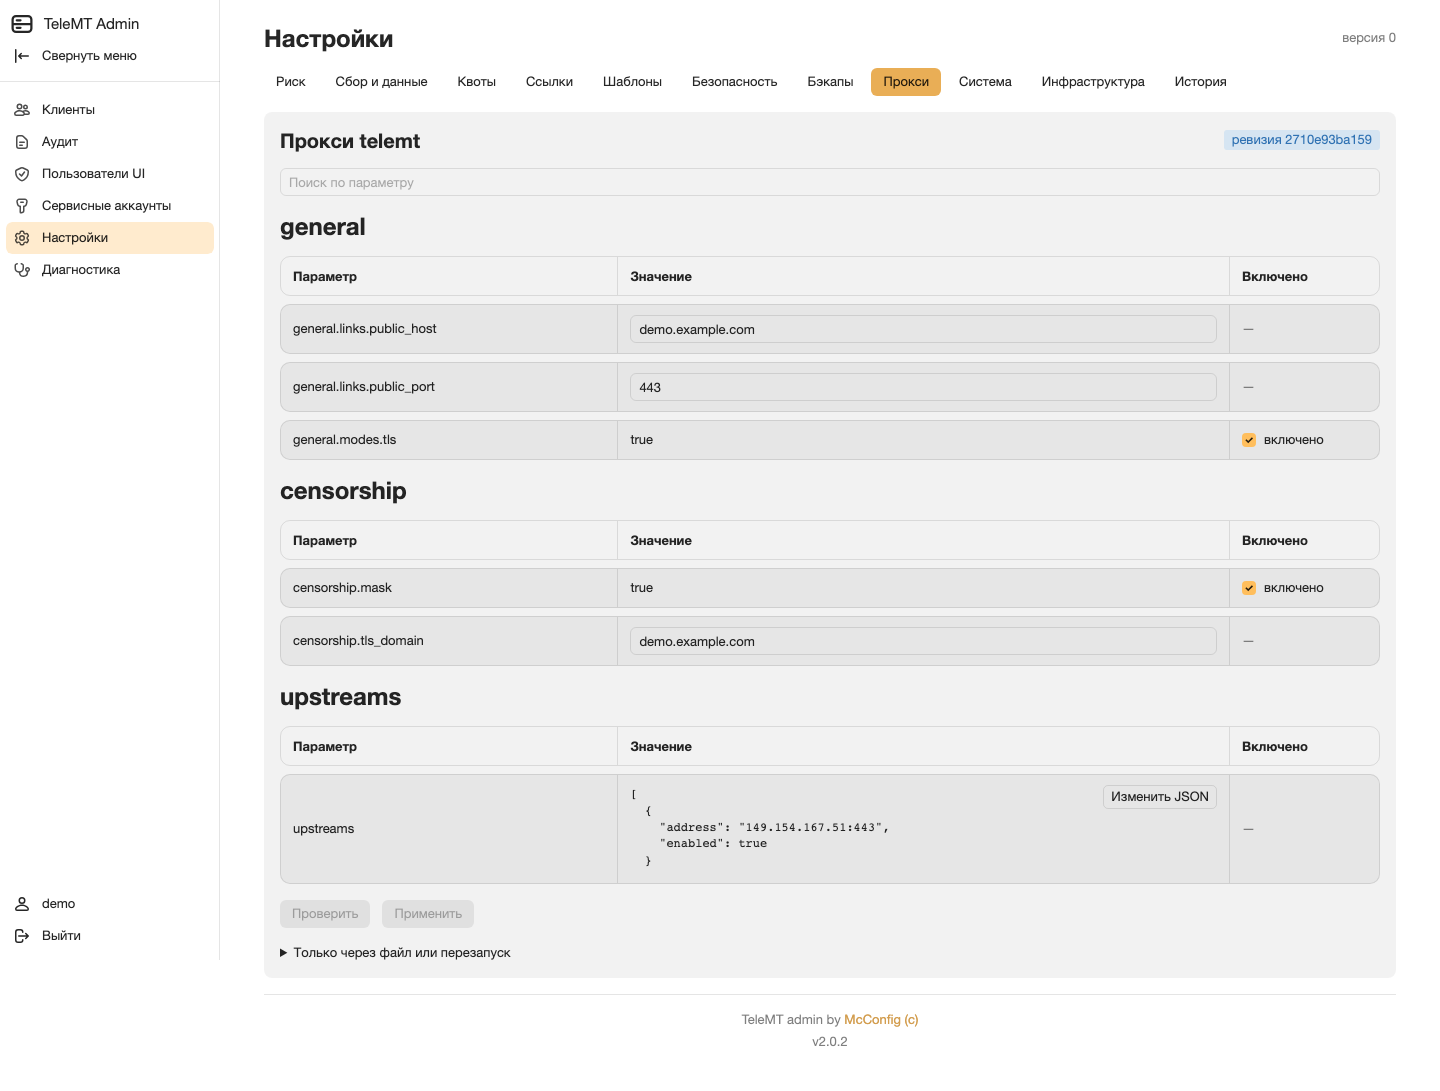
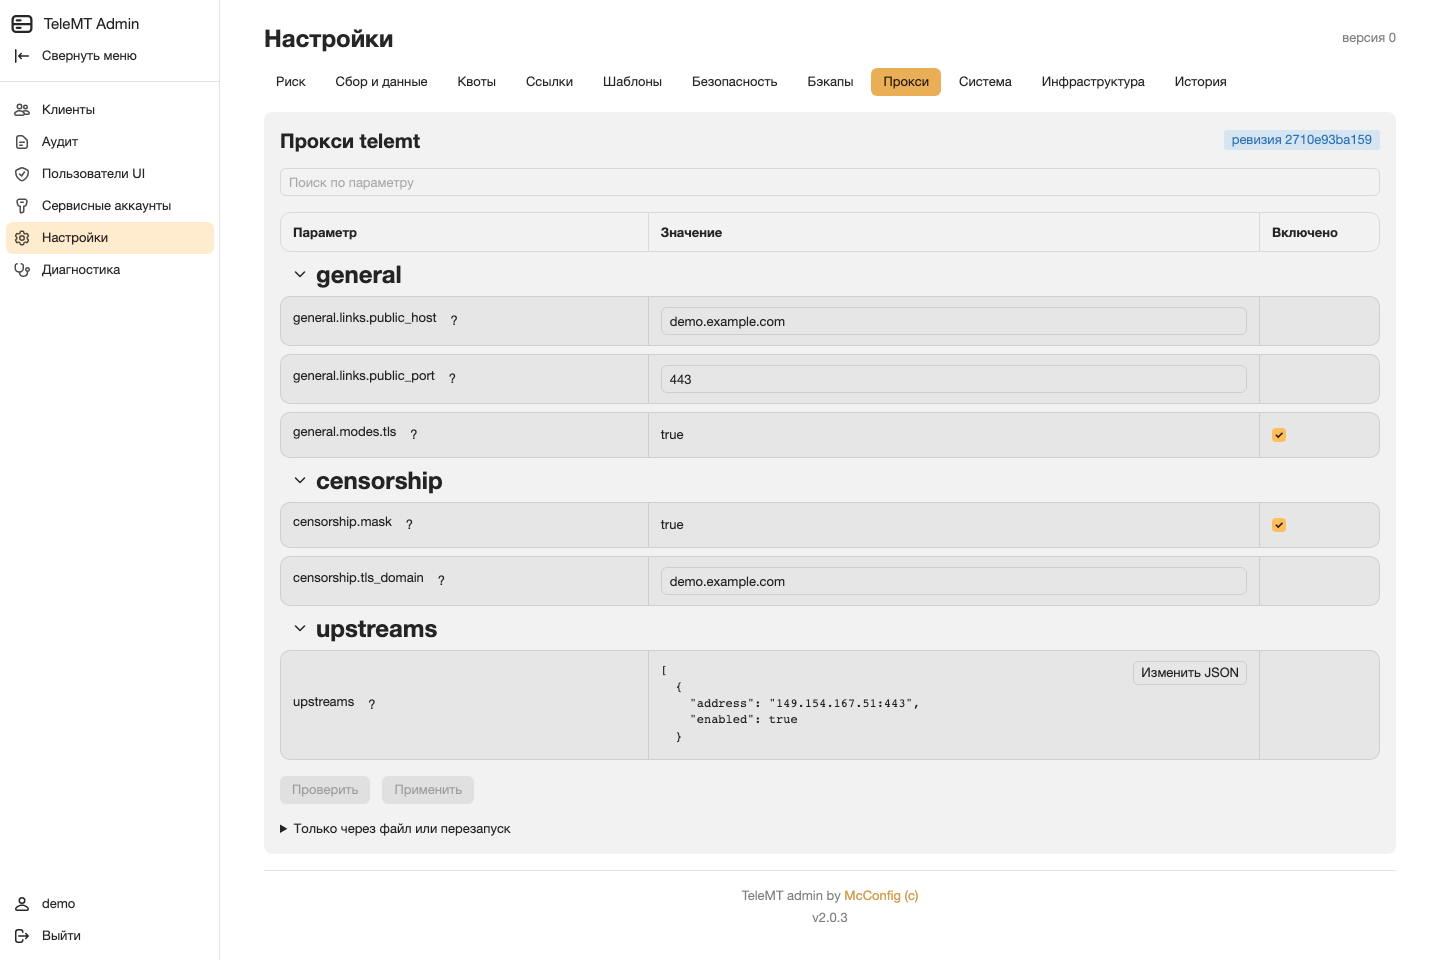
feat(ui): подсказки, сворачивание и подсветка в таблице прокси (#95)

diff --git a/frontend/src/pages/ProxyPanel.tsx b/frontend/src/pages/ProxyPanel.tsx
@@ -5,13 +5,16 @@ import {
   Card,
   Checkbox,
   Dialog,
+  Icon,
   Label,
   Loader,
+  Popover,
   Select,
   Text,
   TextArea,
   TextInput,
 } from '@gravity-ui/uikit';
+import { ChevronDown, ChevronRight } from '@gravity-ui/icons';
 import { api, ApiError, type ProxyConfig, type ProxySchema, type ProxySchemaField } from '../api';
 
 function getPath(source: Record<string, unknown>, path: string): unknown {
@@ -105,6 +108,7 @@ export default function ProxyPanel() {
   const [reload, setReload] = useState('');
   const [search, setSearch] = useState('');
   const [jsonEditor, setJsonEditor] = useState<JsonEditor | null>(null);
+  const [collapsed, setCollapsed] = useState<Record<string, boolean>>({});
 
   const load = useCallback(async () => {
     try {
@@ -197,6 +201,12 @@ export default function ProxyPanel() {
     walk('', patch);
     return out;
   }, [patch]);
+
+  const rowChanged = (field: ProxySchemaField) => {
+    if (draft[field.path] === undefined) return false;
+    const original = getPath(config?.config ?? {}, field.path);
+    return JSON.stringify(draft[field.path]) !== JSON.stringify(original);
+  };
 
   const matches = (field: ProxySchemaField) => {
     const needle = search.trim().toLowerCase();
@@ -291,18 +301,31 @@ export default function ProxyPanel() {
   const renderRow = (field: ProxySchemaField, readonly = false) => {
     const kind = kindOf(field);
     const value = current(field);
+    const help = field.description || field.non_editable_reason;
     return (
-      <div className="proxy-row" key={field.path}>
+      <div className={`proxy-row${rowChanged(field) ? ' proxy-row_changed' : ''}`} key={field.path}>
         <div className="proxy-cell proxy-name">
-          <Text>{field.path}</Text>
-          {field.description && <Text className="muted proxy-description">{field.description}</Text>}
+          <div className="proxy-name-line">
+            <Text>{field.path}</Text>
+            {help && (
+              <Popover
+                trigger="click"
+                placement="right"
+                content={<Text className="proxy-help-text">{help}</Text>}
+              >
+                <Button view="flat" size="s" className="proxy-help" aria-label={`Описание ${field.path}`}>
+                  ?
+                </Button>
+              </Popover>
+            )}
+          </div>
         </div>
         <div className="proxy-cell proxy-value">
           {kind === 'bool' ? (
             <Text>{Boolean(value) ? 'true' : 'false'}</Text>
           ) : kind === 'enum' ? (
             readonly ? (
-              <Text>{String(value ?? '—')}</Text>
+              <Text>{String(value ?? '')}</Text>
             ) : (
               <Select
                 aria-label={field.path}
@@ -325,7 +348,7 @@ export default function ProxyPanel() {
               )}
             </div>
           ) : readonly ? (
-            <Text>{valueText(value) || '—'}</Text>
+            <Text>{valueText(value)}</Text>
           ) : (
             <TextInput
               value={valueText(value)}
@@ -336,16 +359,13 @@ export default function ProxyPanel() {
           )}
         </div>
         <div className="proxy-cell proxy-enabled">
-          {kind === 'bool' ? (
+          {kind === 'bool' && (
             <Checkbox
               checked={Boolean(value)}
               disabled={readonly}
               onUpdate={(checked) => update(field, checked)}
-              content="включено"
               controlProps={{ 'aria-label': field.path }}
             />
-          ) : (
-            <Text className="muted">—</Text>
           )}
         </div>
       </div>
@@ -378,19 +398,30 @@ export default function ProxyPanel() {
           controlProps={{ 'aria-label': 'Поиск по параметру' }}
         />
 
-        {Object.entries(groups).map(([section, items]) => {
-          const visible = items.filter(matches);
-          if (visible.length === 0) return null;
-          return (
-            <div className="stack proxy-section" key={section}>
-              <Text variant="header-2">{section}</Text>
-              <div className="proxy-table">
-                {header}
-                {visible.map((field) => renderRow(field))}
+        <div className="proxy-table">
+          {header}
+          {Object.entries(groups).map(([section, items]) => {
+            const visible = items.filter(matches);
+            if (visible.length === 0) return null;
+            const isCollapsed = Boolean(collapsed[section]);
+            return (
+              <div className="proxy-group" key={section}>
+                <Button
+                  view="flat"
+                  className="proxy-group-toggle"
+                  aria-expanded={!isCollapsed}
+                  onClick={() => setCollapsed((prev) => ({ ...prev, [section]: !prev[section] }))}
+                >
+                  <span className="proxy-group-title">
+                    <Icon data={isCollapsed ? ChevronRight : ChevronDown} size={16} />
+                    <Text variant="header-2">{section}</Text>
+                  </span>
+                </Button>
+                {!isCollapsed && visible.map((field) => renderRow(field))}
               </div>
-            </div>
-          );
-        })}
+            );
+          })}
+        </div>
 
         {changedPaths.length > 0 && (
           <div className="stack">
@@ -429,7 +460,6 @@ export default function ProxyPanel() {
           <details>
             <summary>Только через файл или перезапуск</summary>
             <div className="proxy-table" style={{ marginTop: 8 }}>
-              {header}
               {readOnly.filter(matches).map((field) => renderRow(field, true))}
             </div>
           </details>
@@ -444,12 +474,15 @@ export default function ProxyPanel() {
         <Dialog.Header caption={jsonEditor ? `JSON: ${jsonEditor.path}` : 'JSON'} />
         <Dialog.Body>
           <div className="stack proxy-json-dialog">
-            {jsonEditor?.error && (
-              <Alert theme="danger" message={jsonEditor.error} onClose={() => jsonEditor && changeJSON(jsonEditor.text)} />
-            )}
+            <div className="proxy-json-error">
+              {jsonEditor?.error ? (
+                <Alert theme="danger" message={jsonEditor.error} />
+              ) : (
+                <Text className="muted">JSON проверяется автоматически</Text>
+              )}
+            </div>
             <TextArea
               className="proxy-json-editor"
-              rows={18}
               value={jsonEditor?.text ?? ''}
               onUpdate={changeJSON}
               controlProps={{ 'aria-label': 'JSON' }}

diff --git a/frontend/src/pages/ProxyPanel.test.tsx b/frontend/src/pages/ProxyPanel.test.tsx
@@ -194,7 +194,7 @@ describe('ProxyPanel — таблица и JSON', () => {
       },
     });
     renderUI(<ProxyPanel />);
-    expect((await screen.findAllByText('Параметр')).length).toBeGreaterThan(0);
+    expect(await screen.findAllByText('Параметр')).toHaveLength(1);
     expect(screen.getAllByText('Значение').length).toBeGreaterThan(0);
     expect(screen.getAllByText('Включено').length).toBeGreaterThan(0);
     expect(screen.getByRole('checkbox', { name: 'censorship.mask' })).toBeChecked();
@@ -310,5 +310,85 @@ describe('ProxyPanel — объект, enum и read-only', () => {
     const checkbox = await screen.findByRole('checkbox', { name: 'server.metrics' });
     expect(checkbox).toBeDisabled();
     expect(checkbox).toBeChecked();
+  });
+});
+
+const helpSchema = {
+  version: 1,
+  fields: [
+    {
+      path: 'general.links.public_host',
+      description: 'Публичный адрес в ссылках tg://',
+      value: { type: 'string' },
+      api: { config_read: true, config_write: true },
+      apply: { watcher: 'supported', reload: 'supported', effect: 'links' },
+    },
+    {
+      path: 'censorship.mask',
+      description: 'Маскировать неизвестные соединения',
+      value: { type: 'boolean' },
+      api: { config_read: true, config_write: true },
+      apply: { watcher: 'supported', reload: 'supported', effect: 'mask' },
+    },
+  ],
+};
+
+describe('ProxyPanel — подсказки, сворачивание и подсветка', () => {
+  it('показывает подсказку по вопросику', async () => {
+    stubFetch({
+      '/api/proxy/schema': helpSchema,
+      '/api/proxy/config': {
+        revision: 'rev1',
+        config: { general: { links: { public_host: 'old' } }, censorship: { mask: true } },
+      },
+    });
+    renderUI(<ProxyPanel />);
+    await userEvent.click(await screen.findByRole('button', { name: 'Описание general.links.public_host' }));
+    expect(await screen.findByText('Публичный адрес в ссылках tg://')).toBeInTheDocument();
+  });
+
+  it('сворачивает и разворачивает группу', async () => {
+    stubFetch({
+      '/api/proxy/schema': helpSchema,
+      '/api/proxy/config': {
+        revision: 'rev1',
+        config: { general: { links: { public_host: 'old' } }, censorship: { mask: true } },
+      },
+    });
+    renderUI(<ProxyPanel />);
+    await screen.findByText('general.links.public_host');
+    await userEvent.click(screen.getByRole('button', { name: /^general/ }));
+    expect(screen.queryByText('general.links.public_host')).not.toBeInTheDocument();
+    await userEvent.click(screen.getByRole('button', { name: /^general/ }));
+    expect(await screen.findByText('general.links.public_host')).toBeInTheDocument();
+  });
+
+  it('подсвечивает рамку изменённого параметра', async () => {
+    stubFetch({
+      '/api/proxy/schema': helpSchema,
+      '/api/proxy/config': {
+        revision: 'rev1',
+        config: { general: { links: { public_host: 'old' } }, censorship: { mask: true } },
+      },
+    });
+    renderUI(<ProxyPanel />);
+    const input = await screen.findByLabelText('general.links.public_host');
+    expect(input.closest('.proxy-row')).not.toHaveClass('proxy-row_changed');
+    await userEvent.type(input, 'x');
+    expect(input.closest('.proxy-row')).toHaveClass('proxy-row_changed');
+  });
+
+  it('не рисует содержимое в колонке включения у не-boolean', async () => {
+    stubFetch({
+      '/api/proxy/schema': helpSchema,
+      '/api/proxy/config': {
+        revision: 'rev1',
+        config: { general: { links: { public_host: 'old' } }, censorship: { mask: true } },
+      },
+    });
+    renderUI(<ProxyPanel />);
+    const input = await screen.findByLabelText('general.links.public_host');
+    const row = input.closest('.proxy-row') as HTMLElement;
+    expect(row.querySelectorAll('.proxy-cell')[2].textContent).toBe('');
   });
 });

diff --git a/frontend/src/styles.css b/frontend/src/styles.css
@@ -85,9 +85,12 @@ table a:hover, .user-card a:hover { text-decoration: underline; text-underline-o
 }
 
 .proxy-table { display: flex; flex-direction: column; gap: 8px; }
+.proxy-group { display: flex; flex-direction: column; gap: 8px; }
+.proxy-group-toggle { align-self: flex-start; padding-left: 0; }
+.proxy-group-title { display: inline-flex; align-items: center; gap: 8px; }
 .proxy-row {
   display: grid;
-  grid-template-columns: minmax(220px, 1.1fr) minmax(0, 2fr) 150px;
+  grid-template-columns: minmax(260px, 1.2fr) minmax(0, 2fr) 120px;
   border: 1px solid var(--g-color-line-generic);
   border-radius: 10px;
   background: var(--g-color-base-generic);
@@ -97,7 +100,14 @@ table a:hover, .user-card a:hover { text-decoration: underline; text-underline-o
   background: var(--g-color-base-generic-alt);
   font-weight: 600;
 }
-.proxy-cell { padding: 10px 12px; min-width: 0; display: flex; flex-direction: column; justify-content: center; gap: 4px; }
+.proxy-cell { padding: 10px 12px; min-width: 0; display: flex; flex-direction: column; justify-content: center; gap: 4px; overflow-wrap: anywhere; }
+.proxy-name-line { display: flex; align-items: flex-start; gap: 6px; flex-wrap: wrap; }
+.proxy-name-line .g-text { overflow-wrap: anywhere; }
+.proxy-help { min-width: 22px; height: 22px; padding: 0; border-radius: 50%; font-weight: 600; }
+.proxy-help-text { display: block; max-width: 320px; }
+.proxy-value input, .proxy-value textarea { min-width: 0; }
+.proxy-value input:focus, .proxy-value textarea:focus { background-color: #fff; }
+.proxy-row_changed { border-color: var(--g-color-line-warning); box-shadow: 0 0 0 1px var(--g-color-line-warning); }
 .proxy-cell + .proxy-cell { border-left: 1px solid var(--g-color-line-generic); }
 .proxy-description { font-size: 12px; }
 .proxy-json { align-items: flex-start; gap: 8px; }
@@ -114,7 +124,11 @@ table a:hover, .user-card a:hover { text-decoration: underline; text-underline-o
   word-break: break-all;
 }
 .proxy-json-editor textarea { font-family: monospace; font-size: 13px; line-height: 1.45; }
-.proxy-json-dialog { min-height: 360px; }
+.proxy-json-dialog { min-height: 540px; }
+.proxy-json-error { min-height: 56px; max-height: 96px; overflow: auto; display: flex; align-items: flex-start; }
+.proxy-json-editor { flex: 1; }
+.proxy-json-editor textarea { height: 400px; resize: vertical; }
+.proxy-json-editor.g-text-area, .proxy-json-editor .g-text-area__control { height: 400px; }
 @media (max-width: 760px) {
   .proxy-row { grid-template-columns: 1fr; }
   .proxy-cell + .proxy-cell { border-left: 0; border-top: 1px solid var(--g-color-line-generic); }

diff --git a/deploy/demo/fake-telemt/main.go b/deploy/demo/fake-telemt/main.go
@@ -450,12 +450,12 @@ func (s *server) handleConfigSchema(w http.ResponseWriter, _ *http.Request) {
 	writeOK(w, map[string]any{
 		"schema_version": 1,
 		"fields": []map[string]any{
-			{"path": "general.links.public_host", "value": map[string]any{"type": "string"}, "api": map[string]any{"config_read": true, "config_write": true}},
-			{"path": "general.links.public_port", "value": map[string]any{"type": "integer"}, "api": map[string]any{"config_read": true, "config_write": true}},
-			{"path": "general.modes.tls", "value": map[string]any{"type": "boolean"}, "api": map[string]any{"config_read": true, "config_write": true}},
-			{"path": "censorship.tls_domain", "value": map[string]any{"type": "string"}, "api": map[string]any{"config_read": true, "config_write": true}},
-			{"path": "censorship.mask", "value": map[string]any{"type": "boolean"}, "api": map[string]any{"config_read": true, "config_write": true}},
-			{"path": "upstreams", "value": map[string]any{"type": "array", "items": map[string]any{"type": "object"}}, "api": map[string]any{"config_read": true, "config_write": true}},
+			{"path": "general.links.public_host", "description": "Публичный адрес в ссылках tg://", "value": map[string]any{"type": "string"}, "api": map[string]any{"config_read": true, "config_write": true}},
+			{"path": "general.links.public_port", "description": "Порт в ссылках tg://", "value": map[string]any{"type": "integer"}, "api": map[string]any{"config_read": true, "config_write": true}},
+			{"path": "general.modes.tls", "description": "Разрешить режим FakeTLS", "value": map[string]any{"type": "boolean"}, "api": map[string]any{"config_read": true, "config_write": true}},
+			{"path": "censorship.tls_domain", "description": "Домен-прикрытие для FakeTLS", "value": map[string]any{"type": "string"}, "api": map[string]any{"config_read": true, "config_write": true}},
+			{"path": "censorship.mask", "description": "Маскировать неизвестные соединения", "value": map[string]any{"type": "boolean"}, "api": map[string]any{"config_read": true, "config_write": true}},
+			{"path": "upstreams", "description": "Прямые апстримы telemt", "value": map[string]any{"type": "array", "items": map[string]any{"type": "object"}}, "api": map[string]any{"config_read": true, "config_write": true}},
 			{"path": "server.port", "value": map[string]any{"type": "integer"}, "api": map[string]any{"config_read": false, "config_write": false}, "non_editable_reason": "process_owned"},
 		},
 	})

diff --git a/internal/telemt/config.go b/internal/telemt/config.go
@@ -13,9 +13,10 @@ type ConfigData struct {
 
 // SchemaField — описание одного пути конфигурации.
 type SchemaField struct {
-	Path  string         `json:"path"`
-	Value map[string]any `json:"value"`
-	API   struct {
+	Path        string         `json:"path"`
+	Description string         `json:"description,omitempty"`
+	Value       map[string]any `json:"value"`
+	API         struct {
 		ConfigRead  bool `json:"config_read"`
 		ConfigWrite bool `json:"config_write"`
 	} `json:"api"`

diff --git a/CHANGELOG.md b/CHANGELOG.md
@@ -5,6 +5,20 @@
 
 ## [Unreleased]
 
+## [2.0.3] — 2026-11-27
+
+### Изменено
+
+- в таблице прокси убраны повторяющиеся заголовки, заголовок один;
+- верхнеуровневые группы сворачиваются и разворачиваются;
+- у каждого параметра появился «?» с подсказкой из схемы telemt;
+- boolean-параметры показываются только чекбоксом, без подписи
+  «включено/выключено»; у остальных колонка пустая;
+- поле получает белый фон при фокусе, а рамка изменённого параметра
+  подсвечивается жёлтым;
+- JSON-редактор увеличен, область ошибки фиксирована и не сдвигает окно;
+- длинные имена параметров переносятся, а не выходят за ячейку.
+
 ## [2.0.2] — 2026-11-27
 
 ### Изменено

diff --git a/deploy/demo/README.md b/deploy/demo/README.md
@@ -118,7 +118,7 @@
 
 ## Смена версии tgadmin
 
-По умолчанию используется `v2.0.2`. Другая версия:
+По умолчанию используется `v2.0.3`. Другая версия:
 
 ```bash
 TGADMIN_VERSION=v1.3.1 docker compose up -d tgadmin
